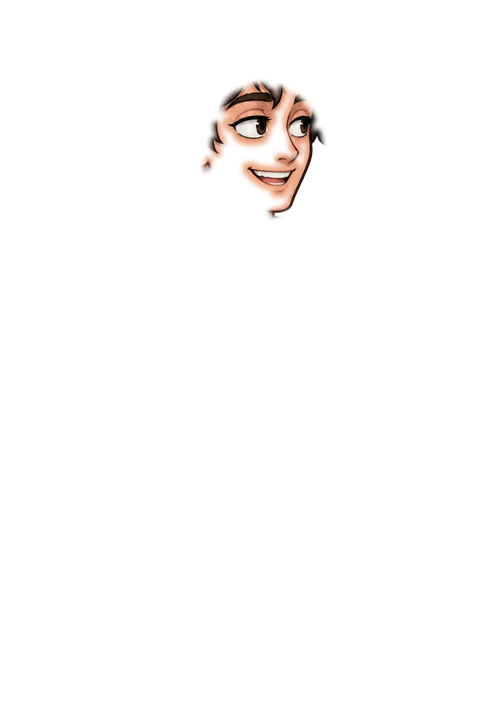
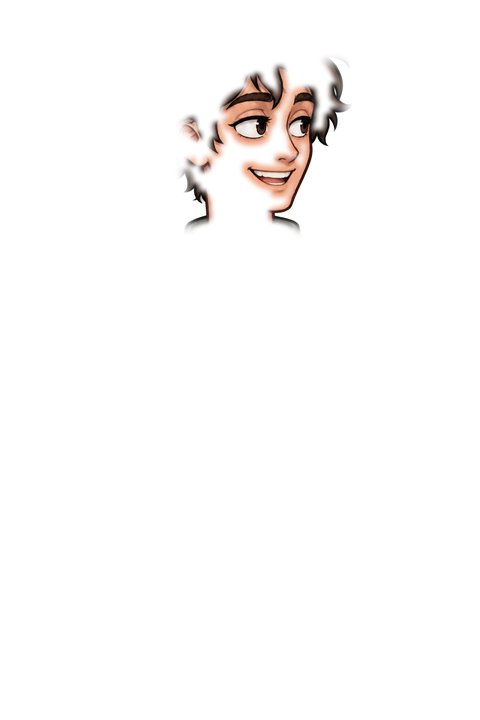
Fix double eyebrows, enlarge Pip, add in-scene NPC pictures
- face layers: take changed pixels from a forehead-to-chin box instead of
  a tight ellipse, so the old eyebrow position is replaced too; the
  pipeline now reports leftover blobs (all 16 expressions at ~0%)
- Pip is reframed 1.3x and cut at the thigh like the others, head kept
  lower so he still reads as a halfling
- NPCs at a location are drawn inside the background doing something
  (SS style): Ruby cooking / polishing her sword, Martha behind the bar,
  Pip weighing coins and resting on a barrel; pose, head angle and gaze
  per scene are recorded in tools/art_scenes.json
- clicks and hover use a hand-drawn character outline; hover brightens
  by multiplying (stronger at night) instead of adding, which fogged
  dark pictures
- m0 checks every NPC spot has its day/night scene picture and mask

Claude-Session: https://claude.ai/code/session_01WFgBYsqnPjwxzhWx9BLhU6

Changed region(s): [[0.5, 0.0611, 0.7188, 0.2139], [0.375, 0.1528, 0.4688, 0.3361], [0.5625, 0.275, 0.625, 0.3361]]

diff --git a/mosshill/tools/art_pipeline.py b/mosshill/tools/art_pipeline.py
@@ -7,9 +7,10 @@
     표정    <이름>_<표정>.png     같은 그림에서 표정만 바꾼 것
     적      <종류>.png            투명 배경
     아이템  items.png             4x4 칸
+    장소 인물 scene_<장소>_<인물>.png  배경 원본에 인물을 그려 넣은 것
 
     python3 tools/art_pipeline.py RAW all        # 전부
-    python3 tools/art_pipeline.py RAW bg         # 배경만 (bg, sprite, face, enemy, icon, object)
+    python3 tools/art_pipeline.py RAW bg         # 배경만 (bg, sprite, face, enemy, icon, object, scene)
 
 원본은 커서 저장소에 넣지 않는다. 결과물만 커밋한다.
 """
@@ -54,23 +55,39 @@ def do_bg(raw):
 
 ## ---------------------------------------------------------------- 인물
 ## 1024x1536 → 480x720 (루비와 같은 캔버스). 얼굴 조각은 같은 캔버스에 얼굴만 남기고 투명.
-## FACES: 원본(1024x1536) 좌표의 얼굴 타원 (중심 x, y, 반지름 x, y) — 눈썹부터 턱까지
+## face_box: 원본(1024x1536) 좌표에서 표정이 바뀔 수 있는 곳 (이마·눈썹부터 턱까지, 넉넉하게).
+##   이 안에서 '실제로 달라진 곳'만 조각으로 가져간다. 상자가 좁으면 움직인 눈썹의 원래 자리가
+##   상자 밖에 남아 눈썹이 두 개로 보인다 (처음 만든 타원 영역에서 실제로 생긴 문제).
+## frame: (배율, 머리 꼭대기 y) — 원본 그림의 크기·위치를 바꿀 때만.
+##   핍은 전신을 작게 그려 와서 다른 인물 옆에 서면 너무 작다 → 1.3배 키우고 허벅지에서 자른다.
+##   (머리는 다른 인물보다 낮게 둬서 키 작은 하플링으로 보이게)
 CHARS = {
-    "kai":    {"faces": ["happy", "surprised", "sad", "angry", "talk"], "ellipse": (560, 320, 128, 142)},
-    "martha": {"faces": ["happy", "angry", "surprised", "talk"],        "ellipse": (440, 350, 140, 150)},
-    "pip":    {"faces": ["happy", "sad", "surprised", "talk"],          "ellipse": (465, 555, 120, 118)},
-    "gregor": {"faces": ["happy", "angry", "talk"],                     "ellipse": (450, 300, 132, 152)},
+    "kai":    {"faces": ["happy", "surprised", "sad", "angry", "talk"], "face_box": (400, 140, 730, 480)},
+    "martha": {"faces": ["happy", "angry", "surprised", "talk"],        "face_box": (260, 160, 630, 520)},
+    "pip":    {"faces": ["happy", "sad", "surprised", "talk"],          "face_box": (300, 380, 630, 740),
+               "frame": (1.3, 427)},
+    "gregor": {"faces": ["happy", "angry", "talk"],                     "face_box": (290, 110, 620, 480)},
 }
 SPRITE = (480, 720)
 SPRITE_RAW = (1024, 1536)
 
 
+def framed(im, spec, body):
+    """원본 캔버스에서 인물의 크기·위치를 바꾼다 (spec 의 frame). 몸과 표정 조각에 똑같이 적용."""
+    if "frame" not in spec:
+        return im
+    s, top = spec["frame"]
+    x0, y0, x1, y1 = body.getchannel("A").point(lambda v: 255 if v > 16 else 0).getbbox()
+    cx = (x0 + x1) / 2
+    return place(im, s, round(cx - cx * s), round(top - y0 * s))
+
+
 def do_sprite(raw):
-    for name in CHARS:
+    for name, spec in CHARS.items():
         out = os.path.join(IMG, "characters", name)
         os.makedirs(out, exist_ok=True)
         im = Image.open(os.path.join(raw, name + ".png")).convert("RGBA")
-        im.resize(SPRITE, Image.LANCZOS).save(os.path.join(out, "%s_body.png" % name), optimize=True)
+        framed(im, spec, im).resize(SPRITE, Image.LANCZOS).save(os.path.join(out, "%s_body.png" % name), optimize=True)
         print("sprite", name)
 
 
@@ -135,25 +152,34 @@ def do_face(raw):
     for name, spec in CHARS.items():
         out = os.path.join(IMG, "characters", name)
         body = Image.open(os.path.join(raw, name + ".png")).convert("RGBA")
-        cx, cy, rx, ry = spec["ellipse"]
-        ## 맞춤 비교 구역: 얼굴 타원 바깥 둘레 (머리카락, 목, 어깨)
-        ring = (cx - rx - 90, cy - ry - 60, cx + rx + 90, cy + ry + 90)
+        x0, y0, x1, y1 = spec["face_box"]
+        ## 맞춤 비교 구역: 얼굴 상자 둘레 (머리카락, 목, 어깨)
+        ring = (x0 - 70, y0 - 60, x1 + 70, y1 + 90)
         area = Image.new("L", body.size, 0)
-        ImageDraw.Draw(area).ellipse((cx - rx, cy - ry, cx + rx, cy + ry), fill=255)
+        ImageDraw.Draw(area).rectangle((x0, y0, x1, y1), fill=255)
+        area = area.filter(ImageFilter.GaussianBlur(10))
         for face in spec["faces"]:
             ex = Image.open(os.path.join(raw, "%s_%s.png" % (name, face))).convert("RGBA")
             d, s, dx, dy = register(body, ex, ring)
             ex = place(ex, s, dx, dy)
-            ## 얼굴 조각 = 타원 안에서 '실제로 달라진 곳'만 (눈썹·눈·입).
+            ## 얼굴 조각 = 상자 안에서 '실제로 달라진 곳'만 (눈썹·눈·입, 원래 눈썹이 있던 자리 포함).
             ## 머리카락처럼 거의 같은 곳은 원래 몸 그림을 그대로 둬서 경계선이 안 보이게 한다.
             diff = ImageChops.difference(gray_on_white(body), gray_on_white(ex)).filter(ImageFilter.GaussianBlur(2))
             changed = diff.point(lambda v: 255 if v > 14 else 0).filter(ImageFilter.MaxFilter(15))
             mask = ImageChops.multiply(changed, area).filter(ImageFilter.GaussianBlur(5))
             piece = ex.copy()                       # 색은 그대로, 투명도만 조각 모양으로
             piece.putalpha(ImageChops.multiply(mask, ex.getchannel("A")))
-            piece.resize(SPRITE, Image.LANCZOS).save(
+            ## 검사: 몸 + 조각 이 표정 그림과 얼마나 다른가 (원래 눈썹 같은 흔적이 남으면 커진다).
+            ## 맞춤이 1~2px 어긋나 생기는 가는 윤곽선 차이는 무시하고(MinFilter) 덩어리만 센다.
+            comp = body.copy()
+            comp.alpha_composite(piece)
+            left = ImageChops.difference(gray_on_white(comp), gray_on_white(ex)).filter(ImageFilter.GaussianBlur(1.5))
+            left = left.point(lambda v: 255 if v > 40 else 0).filter(ImageFilter.MinFilter(7))
+            left = np.asarray(left.crop(spec["face_box"])) > 0
+            framed(piece, spec, body).resize(SPRITE, Image.LANCZOS).save(
                 os.path.join(out, "%s_face_%s.png" % (name, face)), optimize=True)
-            print("face %-7s %-9s scale=%.2f shift=(%d,%d) ring_diff=%.1f" % (name, face, s, dx, dy, d))
+            print("face %-7s %-9s scale=%.2f shift=(%d,%d) ring_diff=%.1f leftover=%.2f%%%s" % (
+                name, face, s, dx, dy, d, left.mean() * 100, "  <-- 확인 필요" if left.mean() > 0.003 else ""))
 
 
 ## ---------------------------------------------------------------- 적
@@ -223,8 +249,82 @@ def do_object(raw):
             print("object %-14s %-8s rect=%s" % (loc, oid, (box[0], box[1], box[2] - box[0], box[3] - box[1])))
 
 
+## ---------------------------------------------------------------- 장소 안 인물
+## tools/art_scenes.json: {장소: {인물: {"box": [x0,y0,x1,y1], ...}}}
+## RAW/scene_<장소>_<인물>.png = 배경 원본에 인물을 그려 넣은 그림 (같은 구도).
+## 원래 배경과 다른 곳 = 인물 → 화면 크기(1280x720) 투명 PNG 로 저장 (위치 정보가 따로 필요 없다).
+## 식탁·계산대 뒤에 선 인물은 앞의 가구가 배경에 그대로 있으니 가려지는 것도 저절로 맞는다.
+def largest_blob(m):
+    """참/거짓 배열에서 가장 큰 덩어리만 남긴다 (4방향 연결)"""
+    h, w = m.shape
+    seen = np.zeros_like(m, dtype=bool)
+    best = []
+    for y0, x0 in zip(*np.nonzero(m)):
+        if seen[y0, x0]:
+            continue
+        stack, blob = [(y0, x0)], []
+        seen[y0, x0] = True
+        while stack:
+            y, x = stack.pop()
+            blob.append((y, x))
+            for ny, nx in ((y + 1, x), (y - 1, x), (y, x + 1), (y, x - 1)):
+                if 0 <= ny < h and 0 <= nx < w and m[ny, nx] and not seen[ny, nx]:
+                    seen[ny, nx] = True
+                    stack.append((ny, nx))
+        if len(blob) > len(best):
+            best = blob
+    out = np.zeros_like(m, dtype=bool)
+    if best:
+        ys, xs = zip(*best)
+        out[list(ys), list(xs)] = True
+    return out
+
+
+def do_scene(raw):
+    with open(os.path.join(ROOT, "tools", "art_scenes.json"), encoding="utf-8") as f:
+        spec = json.load(f)
+    out = os.path.join(IMG, "scenes")
+    os.makedirs(out, exist_ok=True)
+    for loc, chars in spec.items():
+        if loc.startswith("_"):
+            continue
+        bg = Image.open(os.path.join(raw, loc + ".png")).convert("RGB").crop((0, 80, 1536, 944)).resize(SCREEN, Image.LANCZOS)
+        for who, s in chars.items():
+            sc = Image.open(os.path.join(raw, "scene_%s_%s.png" % (loc, who))).convert("RGB")
+            sc = sc.crop((0, 80, 1536, 944)).resize(SCREEN, Image.LANCZOS)
+            x0, y0, x1, y1 = s["box"]
+            ## 다른 곳: 색 차이 → 잡티 제거 → 틈 메우기 → 가장 큰 덩어리 → 속 구멍 채우기
+            d = np.asarray(ImageChops.difference(bg, sc).filter(ImageFilter.GaussianBlur(1.5))).max(axis=2)
+            m = Image.fromarray(((d > 24) * 255).astype(np.uint8)).crop((x0, y0, x1, y1))
+            m = m.filter(ImageFilter.MinFilter(3)).filter(ImageFilter.MaxFilter(3))      # 잡티
+            m = m.filter(ImageFilter.MaxFilter(9)).filter(ImageFilter.MinFilter(9))      # 틈
+            m = Image.fromarray((largest_blob(np.asarray(m) > 0) * 255).astype(np.uint8))
+            filled = m.copy()                                                            # 구멍: 테두리에서 못 닿는 빈칸
+            pad = Image.new("L", (filled.width + 2, filled.height + 2), 0)
+            pad.paste(filled, (1, 1))
+            ImageDraw.floodfill(pad, (0, 0), 128)
+            m = Image.fromarray(np.where(np.asarray(pad)[1:-1, 1:-1] == 128, 0, 255).astype(np.uint8))
+            alpha = Image.new("L", SCREEN, 0)
+            alpha.paste(m.filter(ImageFilter.GaussianBlur(1.2)), (x0, y0))
+            for tod, img in (("day", sc), ("night", night_filter(sc))):
+                piece = Image.new("RGBA", SCREEN, (0, 0, 0, 0))
+                piece.paste(img, (0, 0), alpha)
+                piece.putalpha(alpha)
+                piece.save(os.path.join(out, "scene_%s_%s_%s.png" % (loc, who, tod)), optimize=True)
+            ## 클릭·하이라이트 모양: 인물 윤곽 다각형 (화면 크기 1비트 PNG)
+            shape = Image.new("P", SCREEN, 0)
+            shape.putpalette([0, 0, 0, 255, 255, 255])
+            ImageDraw.Draw(shape).polygon([tuple(p) for p in s["shape"]], fill=1)
+            shape.save(os.path.join(out, "mask_scene_%s_%s.png" % (loc, who)), transparency=0, optimize=True)
+            outside = np.asarray(ImageChops.difference(bg, sc).convert("L")).astype(np.float32)
+            outside[y0:y1, x0:x1] = np.nan
+            bb = alpha.getbbox()
+            print("scene %-14s %-7s 인물 영역=%s  상자 밖 차이=%.1f (작을수록 구도가 그대로)" % (
+                loc, who, bb, np.nanmean(outside)))
+
+
 STEPS = {"bg": do_bg, "sprite": do_sprite, "face": do_face, "enemy": do_enemy,
-         "icon": do_icon, "object": do_object}
+         "icon": do_icon, "object": do_object, "scene": do_scene}
 
 if __name__ == "__main__":
     if len(sys.argv) < 3:

diff --git a/mosshill/README.md b/mosshill/README.md
@@ -15,7 +15,7 @@ tools/run_autotest.sh m1 /tmp/shots ~/renpy-8.3.7-sdk
 
 | 테스트 | 내용 |
 |---|---|
-| `m0` | 데이터 상호 참조 검사, 그림 파일 검사(빠진 그림, 물건 마스크 크기), 인물 전원·밤 색조·마우스 올림 스크린샷 |
+| `m0` | 데이터 상호 참조 검사, 그림 파일 검사(빠진 그림, 물건 마스크 크기, 장소 인물 그림), 인물 전원·밤 색조·마우스 올림 스크린샷 |
 | `m1` | 3일 전체 자동 플레이: 메인 + 서브 2개, 잠김 규칙 3개, 강제 감사 → 실적 4/4 |
 | `m1_lazy` | 아무 의뢰도 안 하고 잠만 잤을 때 → 3일차 감사가 강제로 열리고 0/4 |
 | `m2` | m1 경로를 진짜 전투로 + 상점 구매, 소지품 화면, 경험치·레벨 검사 |
@@ -46,7 +46,7 @@ python3 tools/balance_sim.py 5000   # 밸런스 시뮬레이터 → 결과는 do
 | M0 뼈대 (폴더, 루비, 데이터 틀, 자동 검사) | 완료 |
 | M1 마을 시스템 (시간, 장소, 지도, 잠김 규칙, 퀘스트 4개, HUD, 자동 플레이어) | 완료 — 임시 회색 배경 |
 | M2 전투 시스템 (파티 턴제, 스킬·상태이상, 레벨업, 장비, 소지품·상점 화면, 밸런스 시뮬레이터) | 완료 — 임시 그림 |
-| M3 아트 (배경 11, 인물 4 + 표정 16, 적 4, 아이콘 16, 클릭 모양 31) | 완료 — 그림 생성 약 $1.9 |
+| M3 아트 (배경 11, 인물 4 + 표정 16, 장소 안 인물 5, 적 4, 아이콘 16, 클릭 모양 31) | 완료 — 그림 생성 약 $2.3 |
 | M4 이야기 | |
 | M5 다듬기 | |
 
@@ -76,19 +76,28 @@ python3 tools/balance_sim.py 5000   # 밸런스 시뮬레이터 → 결과는 do
 | `images/enemies/` | `enemy_<종류>.png` (바닥 정렬) |
 | `images/items/` | `icon_<아이템>.png` (96×96) |
 | `images/objects/` | 클릭할 물건 모양 `mask_<장소>_<물건>.png` |
+| `images/scenes/` | 장소 안 인물 `scene_<장소>_<인물>_<day\|night>.png` + 클릭 윤곽 `mask_scene_<장소>_<인물>.png` |
 
 원본(서버에서 받은 큰 PNG)은 저장소에 넣지 않는다. 원본 폴더를 정해 두고 가공만 다시 할 수 있다:
 
 ```bash
-python3 tools/art_pipeline.py <원본폴더> all       # bg sprite face enemy icon object
+python3 tools/art_pipeline.py <원본폴더> all       # bg sprite face enemy icon object scene
 python3 tools/art_pipeline.py <원본폴더> object    # 클릭 모양만 (tools/art_objects.json 을 고친 뒤)
 ```
 
 - 표정: AI 에게 "표정만 바꿔서" 다시 그리게 하면 그림이 조금 밀리거나 커져서 나온다.
-  `face` 단계가 원본과 위치·크기를 맞춘 뒤 **달라진 곳(눈썹·눈·입)만** 오려내서 경계선이 보이지 않는다.
+  `face` 단계가 원본과 위치·크기를 맞춘 뒤 이마~턱 상자 안에서 **달라진 곳(눈썹·눈·입, 원래 눈썹 자리 포함)만**
+  오려내서 경계선이 보이지 않는다. 몸+조각이 표정 그림과 덩어리로 다르면(눈썹이 두 개 남는 등) `확인 필요` 를 찍는다.
+- 핍은 전신으로 작게 그려져서 `frame` 으로 1.3배 키우고 허벅지에서 자른다 (머리는 다른 인물보다 낮게 → 키 작은 하플링).
+- 장소 안 인물 (원작처럼 대화용 큰 그림 대신 그 장소에서 뭔가 하는 모습): 배경 원본에 인물을 그려 넣게 한 뒤
+  `scene` 단계가 원래 배경과 다른 곳만 오려낸다. 식탁·계산대 뒤에 선 인물은 가려지는 것도 저절로 맞는다.
+  자세·**얼굴 각도·시선**은 `tools/art_scenes.json` 에 적어 둔 규칙대로 — 손님을 맞는 사람(마르타, 상점의 핍)은
+  들어온 플레이어(카메라)를 보고, 자기 일에 빠진 사람(요리·검 손질하는 루비)은 손에 든 것을 본다.
+  클릭과 마우스 올림 하이라이트는 인물 윤곽 다각형(`shape`)만 쓴다.
 - 클릭할 물건: 마우스를 올리면 게임이 지금 배경(낮이든 밤이든)을 마스크 모양으로 잘라 밝게 그린다.
   물건을 옮기면 `world.rpy` 의 rect 도 맞춰야 한다 — 다르면 자동 검사 `m0` 가 실패로 잡는다.
 - 밤(저녁·밤)에는 인물에도 푸른 색조를 입힌다 (`motions.rpy` 의 `light_matrix`).
+- 마우스를 올리면 색을 몇 배로 곱해 밝힌다 (밝기를 더하면 밤 그림이 뿌옇게 뜸, `location.rpy` 의 `hover_matrix`).
 
 ## 밸런스 (M2 기준, `docs/balance_report.txt`)
 

diff --git a/docs/game-design.md b/docs/game-design.md
@@ -93,6 +93,7 @@ L_map (마을 지도)
 | `map_town` | 마을 지도 | 장소 아이콘 5개 | 낮/밤 |
 
 - 밤 배경은 낮 그림을 보정해서 만든다 (데모에서 검증됨). 단 **창문·촛불이 있는 곳**은 불빛 덧그림 조각 1장을 추가한다.
+- 장소에 NPC 가 있으면 대화용 큰 그림 대신 **그 장소에서 뭔가 하는 모습**을 배경 속에 그린다 (원작 방식). 자세뿐 아니라 얼굴 각도·시선도 장면마다 정한다: 손님을 맞는 사람은 플레이어(카메라)를, 자기 일에 빠진 사람은 손에 든 것을 본다 (`tools/art_scenes.json`). 클릭하면 대화 장면에서 큰 그림이 나온다.
 - 클릭할 물건은 모양 마스크 PNG (`tools/art_objects.json` 다각형 → `tools/art_pipeline.py object`). 마우스를 올리면 게임이 지금 배경을 그 모양으로 잘라 밝게 그린다 → 낮/밤 조각을 따로 둘 필요가 없다.
 
 ### 진입 검사 (lock check) 규칙
@@ -222,6 +223,7 @@ mosshill/                         ← 새 Ren'Py 프로젝트 (앞 데모와 별
 |---|---|---|
 | 배경 | 1280×720 JPG | 생성은 1536×1024 → 위아래 잘라 16:9 |
 | 대화 스프라이트 | 480×720 투명 PNG | 3/4 측면, 허벅지에서 잘림, 화면 높이 가득. NPC는 왼쪽을, 주인공은 오른쪽을 바라봄 |
+| 장소 안 인물 | 1280×720 투명 PNG (인물만 불투명) | 배경 원본에 인물을 그려 넣고 차이만 오려냄, 낮/밤 |
 | 표정 | 몸과 같은 캔버스 | 표정만 바꿔 다시 그린 뒤, 원본과 위치·크기를 맞추고 **달라진 부분만** 오려냄 |
 | 적 | 투명 PNG, 키 160~380 | 여백 자르고 바닥 정렬 (보스가 가장 큼) |
 | 아이콘 | 96×96 PNG | 4×4 한 장으로 생성 → 칸별로 자름 |
